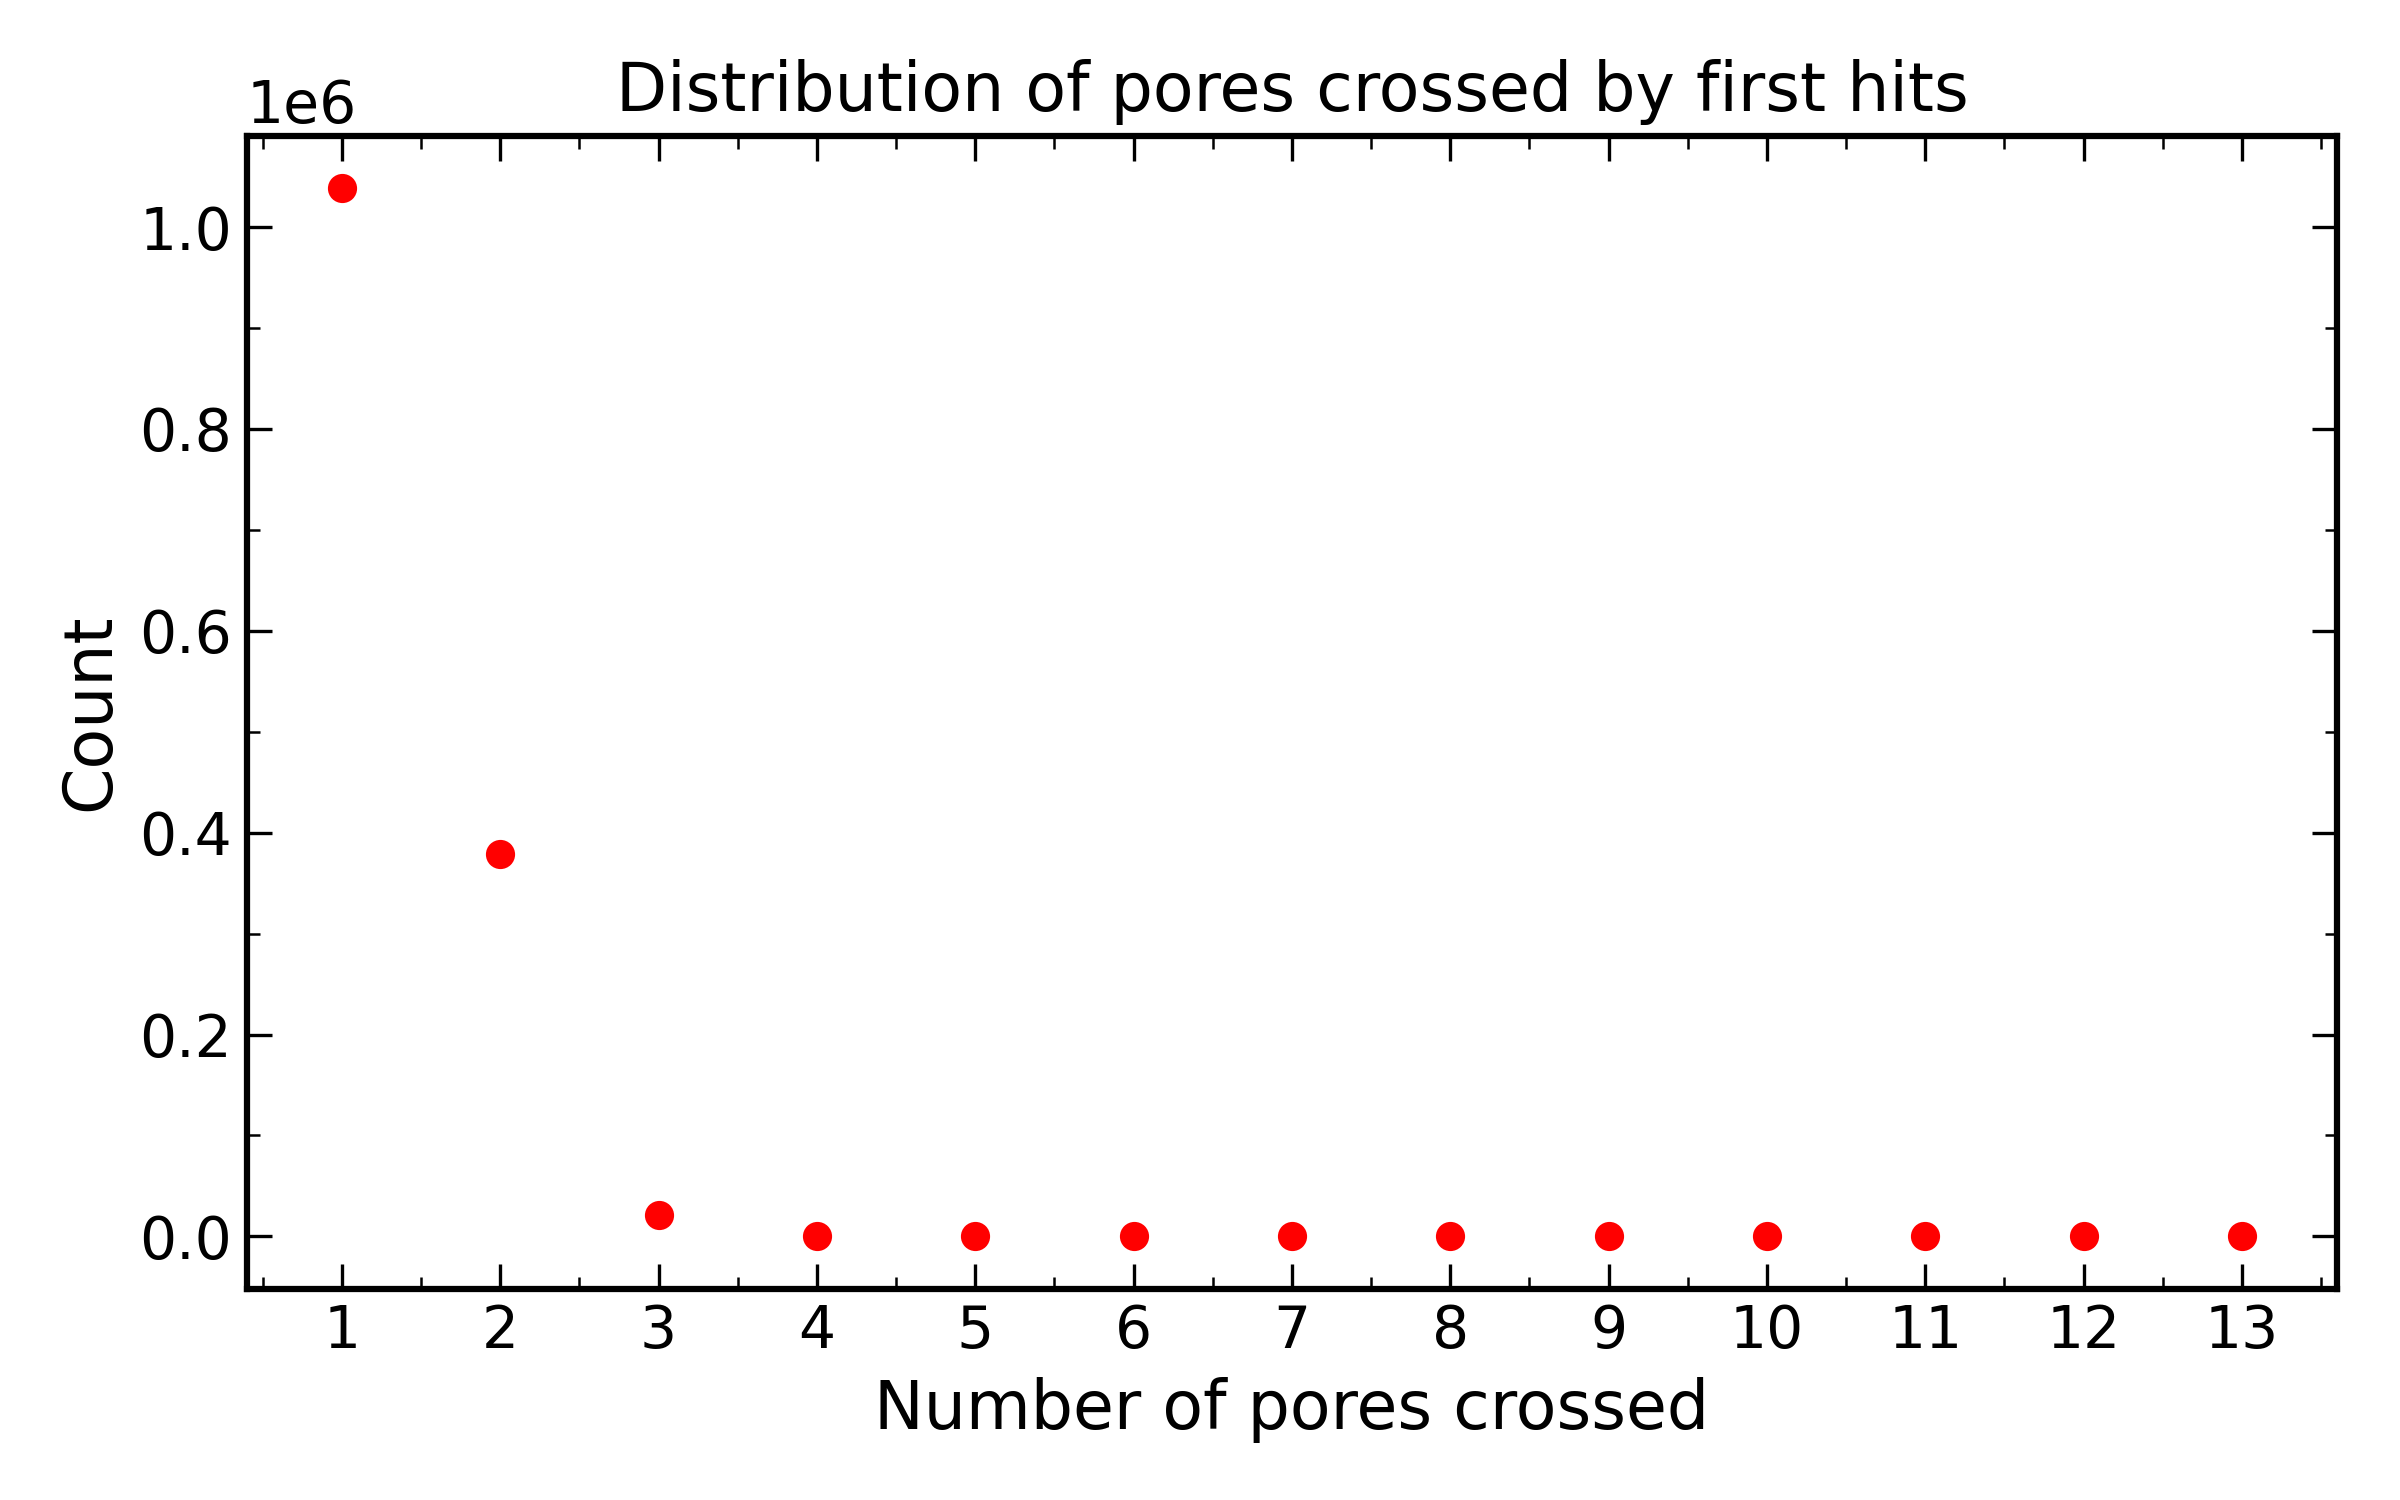
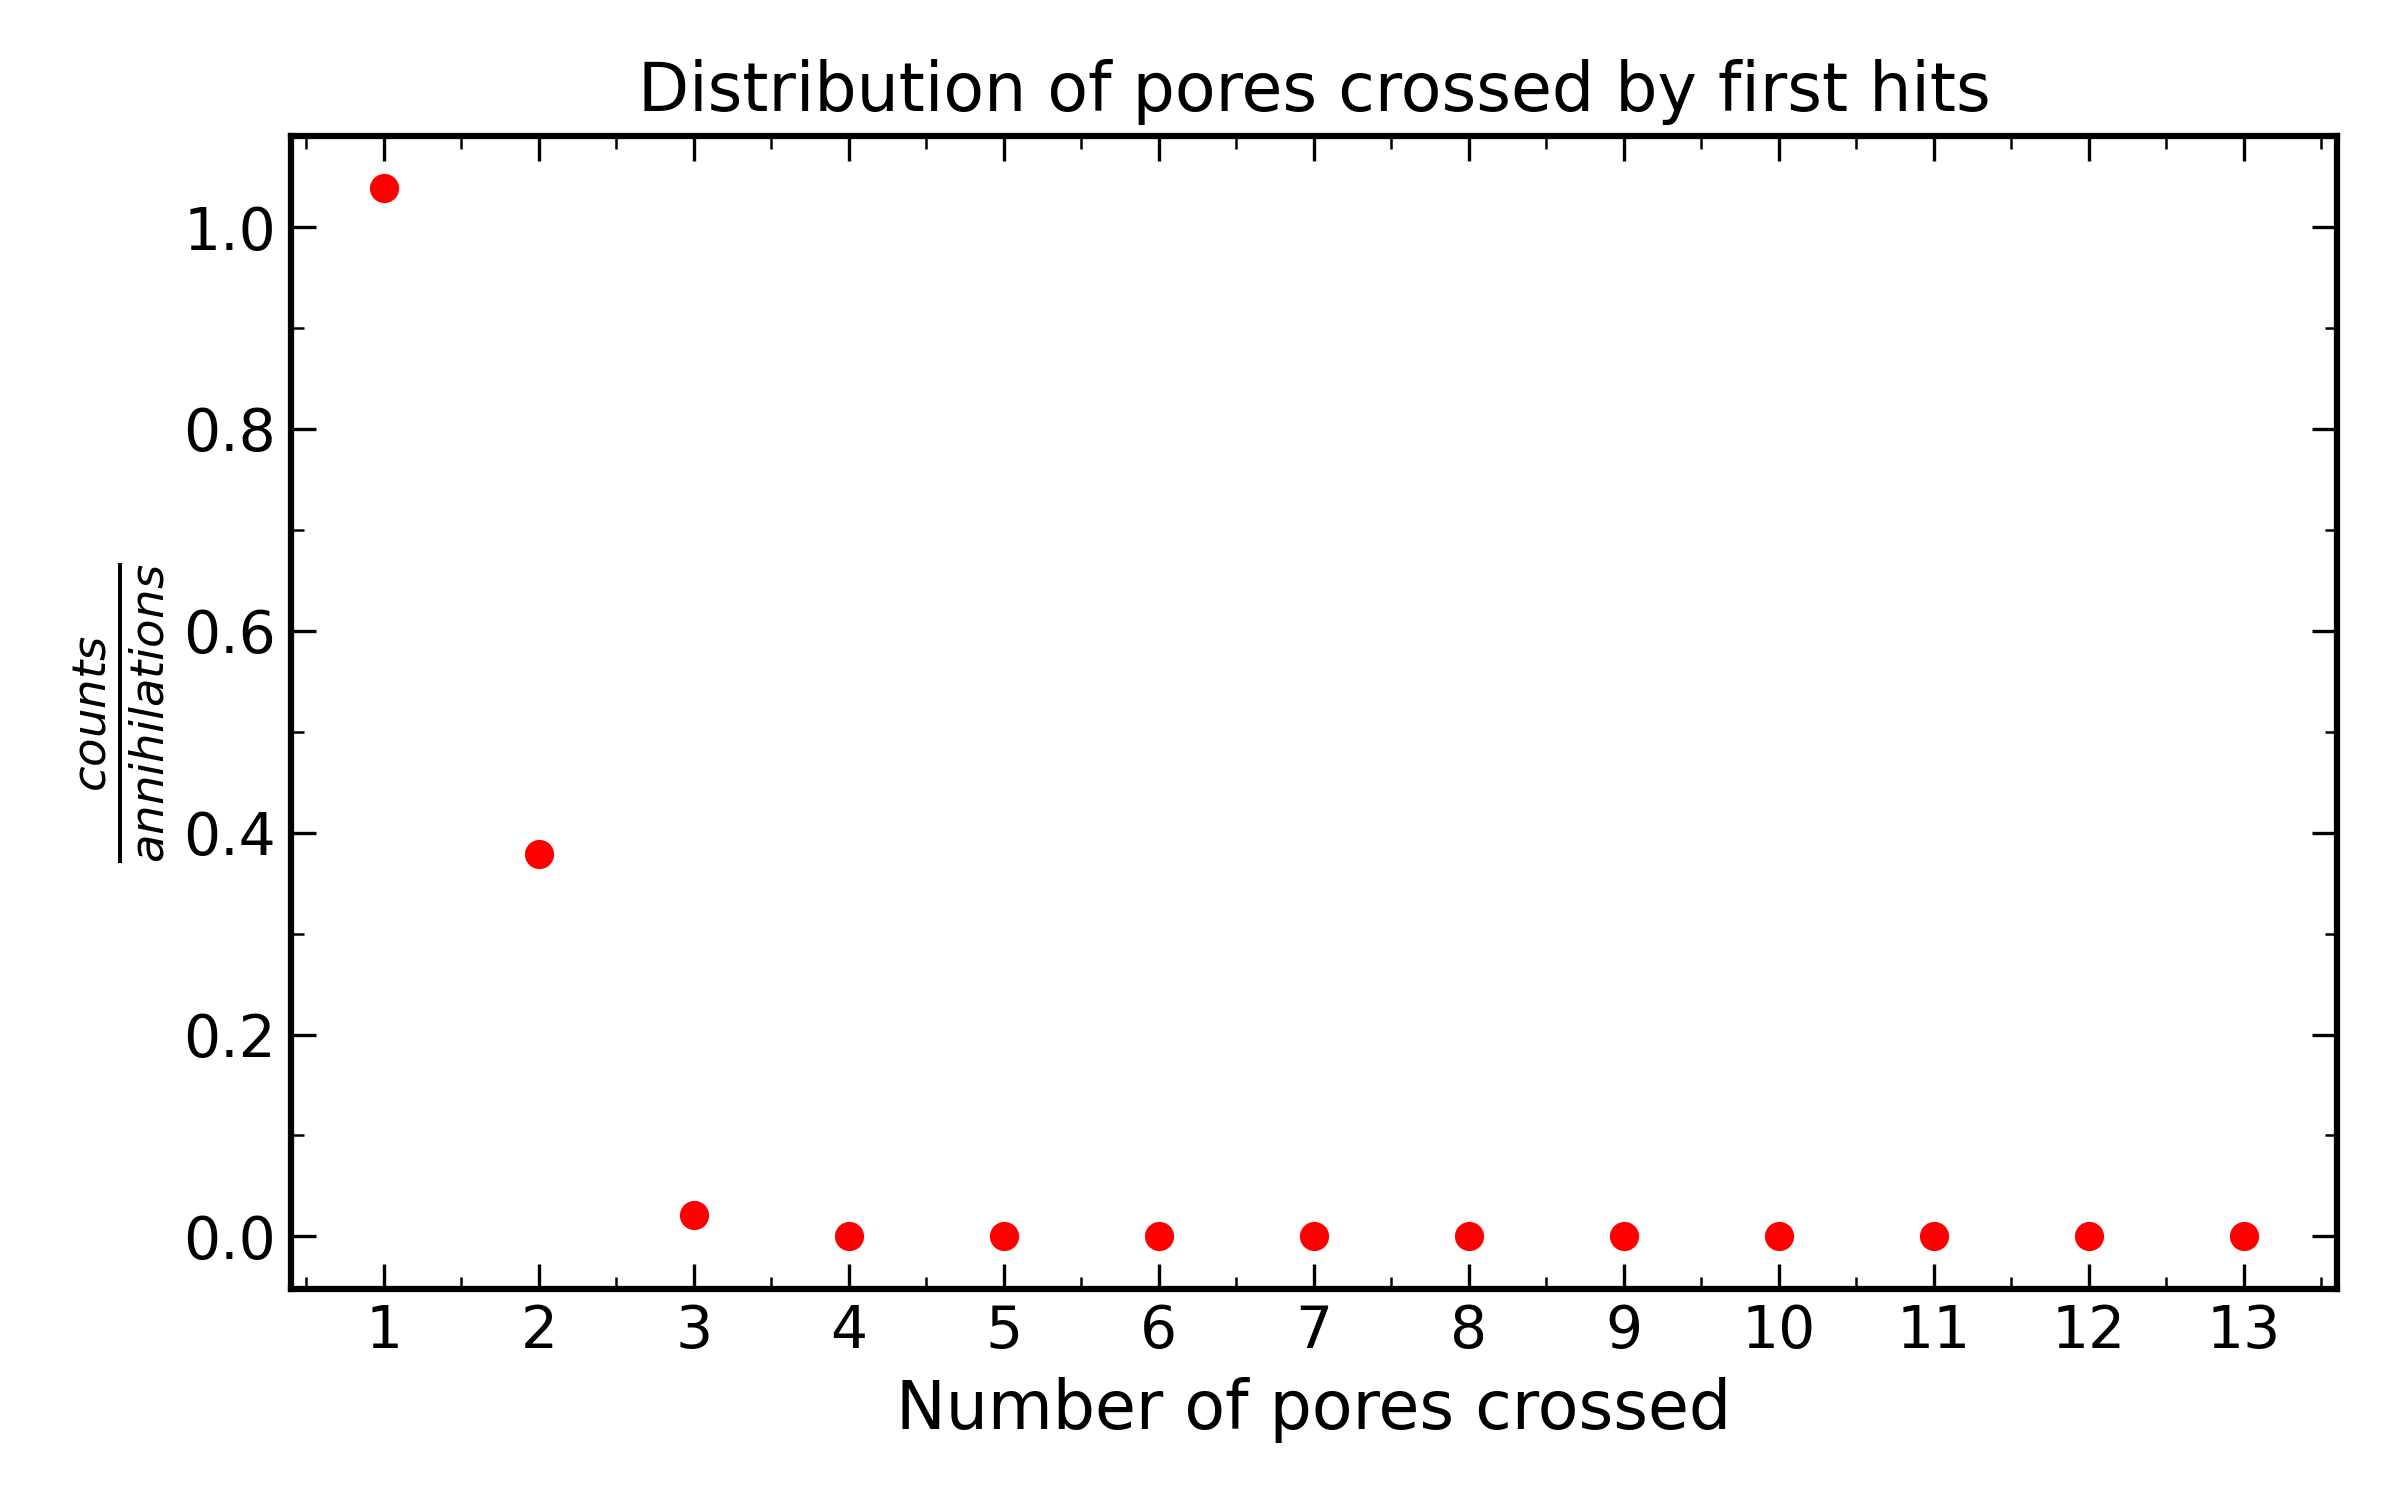
working on plots

diff --git a/scripts/read_min_energy.py b/scripts/read_min_energy.py
@@ -1,0 +1,109 @@
+import numpy as np
+import matplotlib.pyplot as plt
+from matplotlib.ticker import AutoMinorLocator
+import os
+
+# ------------------------------
+# 1. Read binary (int, double) pairs
+# ------------------------------
+
+filename = "data/min_energy.data"
+
+# Each record: int32 (num pores), float64 (min energy)
+dtype = np.dtype([("n_pores", np.int32), ("E_min", np.float64)])
+
+if not os.path.exists(filename):
+    raise FileNotFoundError(f"Could not find {filename}")
+
+records = np.fromfile(filename, dtype=dtype)
+print(f"Loaded {len(records)} records from {filename}")
+
+if len(records) == 0:
+    raise ValueError("File appears to be empty or format is incorrect.")
+
+# ------------------------------
+# 2. Split energies by number of pores crossed (1, 2, 3)
+# ------------------------------
+
+energies_by_pores = {}
+for k in (1, 2, 3):
+    mask = (records["n_pores"] == k)
+    energies = records["E_min"][mask]
+    energies_by_pores[k] = energies
+    print(f"Pores crossed = {k}: {len(energies)} entries")
+
+# ------------------------------
+# 3. Plot helper: point-style histogram
+# ------------------------------
+
+def point_histogram(energies, title, outfile, nbins=50):
+    if len(energies) == 0:
+        print(f"No data for {title}, skipping plot.")
+        return
+
+    # Compute histogram
+    emin, emax = energies.min(), energies.max()
+    counts, edges = np.histogram(energies, bins=nbins, range=(emin, emax))
+    centers = 0.5 * (edges[:-1] + edges[1:])
+
+    # APS-ish styling
+    plt.rcParams.update({
+        "figure.figsize": (8, 5),
+        "axes.linewidth": 1.5,
+        "font.size": 14,
+        "axes.titlesize": 16,
+        "axes.labelsize": 16,
+        "xtick.direction": "in",
+        "ytick.direction": "in",
+        "xtick.top": True,
+        "ytick.right": True,
+        "xtick.major.size": 6,
+        "xtick.minor.size": 3,
+        "ytick.major.size": 6,
+        "ytick.minor.size": 3,
+    })
+
+    fig, ax = plt.subplots()
+
+    # Point-style histogram: counts vs energy bin centers
+    ax.plot(centers, counts, "o", markersize=5, color="black")
+
+    ax.set_xlabel(r"Minimum energy (keV)")
+    ax.set_ylabel("Count")
+    ax.set_title(title)
+
+    # Minor ticks
+    ax.xaxis.set_minor_locator(AutoMinorLocator(2))
+    ax.yaxis.set_minor_locator(AutoMinorLocator(2))
+
+    # Optional subtle grid
+    #ax.grid(which="major", linestyle="--", alpha=0.4)
+    #ax.grid(which="minor", linestyle=":", alpha=0.3)
+
+    plt.tight_layout()
+    os.makedirs(os.path.dirname(outfile), exist_ok=True)
+    plt.savefig(outfile, dpi=300)
+    plt.close(fig)
+    print(f"Saved {outfile}")
+
+# ------------------------------
+# 4. Make plots for 1, 2, 3 pores crossed
+# ------------------------------
+
+point_histogram(
+    energies_by_pores[1],
+    title="Min energy for events crossing 1 pore",
+    outfile="plots/min_energy_pores_1.png",
+)
+
+point_histogram(
+    energies_by_pores[2],
+    title="Min energy for events crossing 2 pores",
+    outfile="plots/min_energy_pores_2.png",
+)
+
+point_histogram(
+    energies_by_pores[3],
+    title="Min energy for events crossing 3 pores",
+    outfile="plots/min_energy_pores_3.png",
+)

diff --git a/src/hgmt_lor_creator.c b/src/hgmt_lor_creator.c
@@ -69,6 +69,7 @@ FILE *first_scatter_ranges;
 FILE *second_scatter_ranges;
 FILE *third_scatter_ranges;
 FILE *pores_crossed_first_hit;
+FILE *min_energy_pores;
 //FILE *angular_output;
 //FILE *det_angle;
 //FILE *energy_dist;
@@ -188,8 +189,11 @@ int debug_path(photon_path *path, debug_context context) {
     hit *first_hit = path->hits[0];
     event *single_event = first_hit->source;
     int num_pores_crossed = pores_crossed(single_event);
+    double energy = min_energy(single_event, num_pores_crossed);
     
     fwrite(&num_pores_crossed, sizeof(int), 1, pores_crossed_first_hit);
+    fwrite(&num_pores_crossed, sizeof(int), 1, min_energy_pores);
+    fwrite(&energy, sizeof(double), 1, min_energy_pores); 
   }
 
   // getting all the important statistics
@@ -565,6 +569,12 @@ int main(int argc, char **argv) {
   pores_crossed_first_hit = fopen(pores_crossed_loc, "wb");
   free(pores_crossed_loc);
 
+  //open up file for min energy
+  char *min_energy_loc;
+  asprintf(&min_energy_loc, "%smin_energy.data", args[2]);
+  min_energy_pores = fopen(min_energy_loc, "wb");
+  free(min_energy_loc);
+
   //opens scatter ranges files
   char *first_ranges_loc;
   asprintf(&first_ranges_loc, "%sfirst_scatter_ranges.data", args[2]);
@@ -763,6 +773,9 @@ int main(int argc, char **argv) {
   }
   if(pores_crossed_first_hit != NULL){
     fclose(pores_crossed_first_hit);
+  }
+  if(min_energy_pores != NULL){
+    fclose(min_energy_pores);
   }
   /*if (angular_output != NULL){
     fclose(angular_output);

diff --git a/src/hgmt_structs.c b/src/hgmt_structs.c
@@ -228,17 +228,20 @@ double min_energy(event *first_hit, int num_crosses){
     double r = (r1 + r2)/2;
     phi_diff = wrap_pi(phi_pore - hit_phi);
     double phi_alpha_diff = alpha/(2*r);
-    double new_phi = wrap_pi(hit_phi + phi_diff - phi_alpha_diff);
-    //I will probably need to go through this again and make some changes
-    //But we'll work with this for now. Hopefully I can make everything correct
-    //and robust over break.
-    double dist_to_first_pore = r*wrap_pi(new_phi  - hit_phi); //we assume scatter makes it to pore since we only consider first hits
-    double min_energy = scatter_energy;
-
-
-
-
-    
+    double phi_prime = wrap_pi(hit_phi + phi_diff - phi_alpha_diff);
+    //first need to find change of phi to first pore
+    double t = (hit_pos.x*sin(phi_prime) - hit_pos.y*cos(phi_prime))/(u.y*cos(phi_prime) - u.x*sin(phi_prime));
+    double new_range = s_max_mm - t;
+    double min_energy = scatter_energy - pg_kapton_energy_keV(new_range);
+    int num_pores = num_crosses - 1;
+    double phi_per_pore = tau/r;
+    for (int i = 0; i < num_pores; i ++){
+        phi_prime += phi_per_pore;
+        t = (hit_pos.x*sin(phi_prime) - hit_pos.y*cos(phi_prime))/(u.y*cos(phi_prime) - u.x*sin(phi_prime));
+        new_range -= t;
+        min_energy -= pg_kapton_energy_keV(new_range);
+    }
+    return min_energy;    
 }
 
 bool plane_crossing(event *single_event){

diff --git a/scripts/plot_pores_crossed.py b/scripts/plot_pores_crossed.py
@@ -10,6 +10,7 @@ max_val = data.max()
 # --- histogram with one bin per integer value ---
 bins = np.arange(data.min(), data.max() + 2) - 0.5
 counts, edges = np.histogram(data, bins=bins)
+counts = counts/1000000
 centers = (edges[:-1] + edges[1:]) / 2
 
 print(f"Max value: {max_val}")
@@ -36,7 +37,7 @@ fig, ax = plt.subplots()
 
 ax.plot(centers, counts, 'o', markersize=6, color='red')
 ax.set_xlabel("Number of pores crossed")
-ax.set_ylabel("Count")
+ax.set_ylabel(r"$\frac{counts}{annihilations}$")
 ax.set_title("Distribution of pores crossed by first hits")
 
 # --- inward ticks on all sides ---
